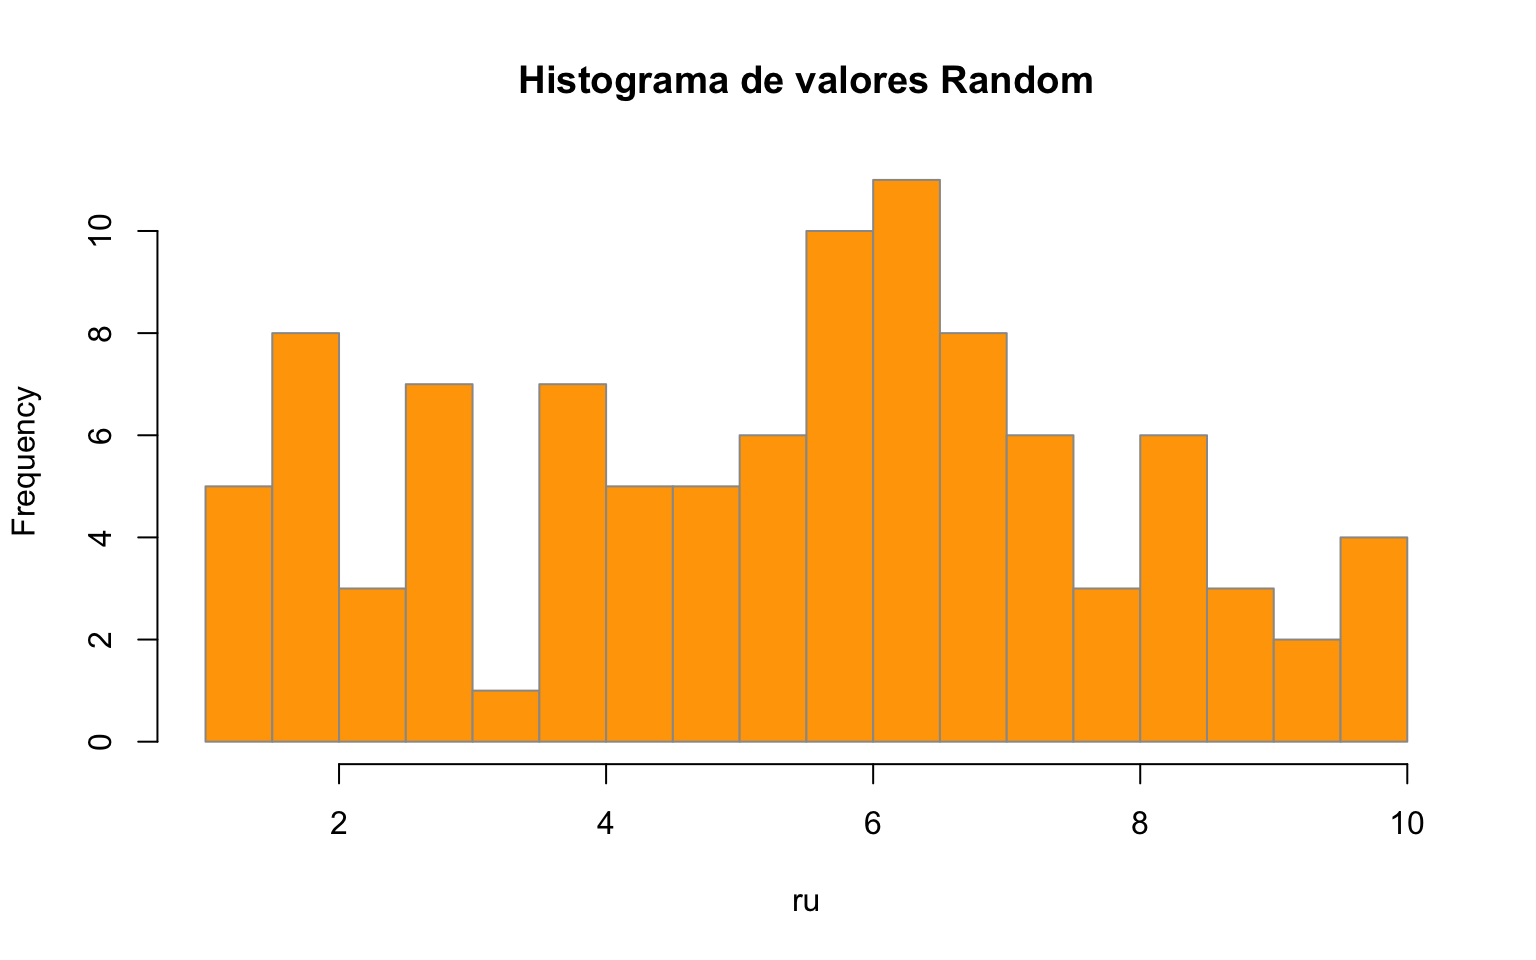
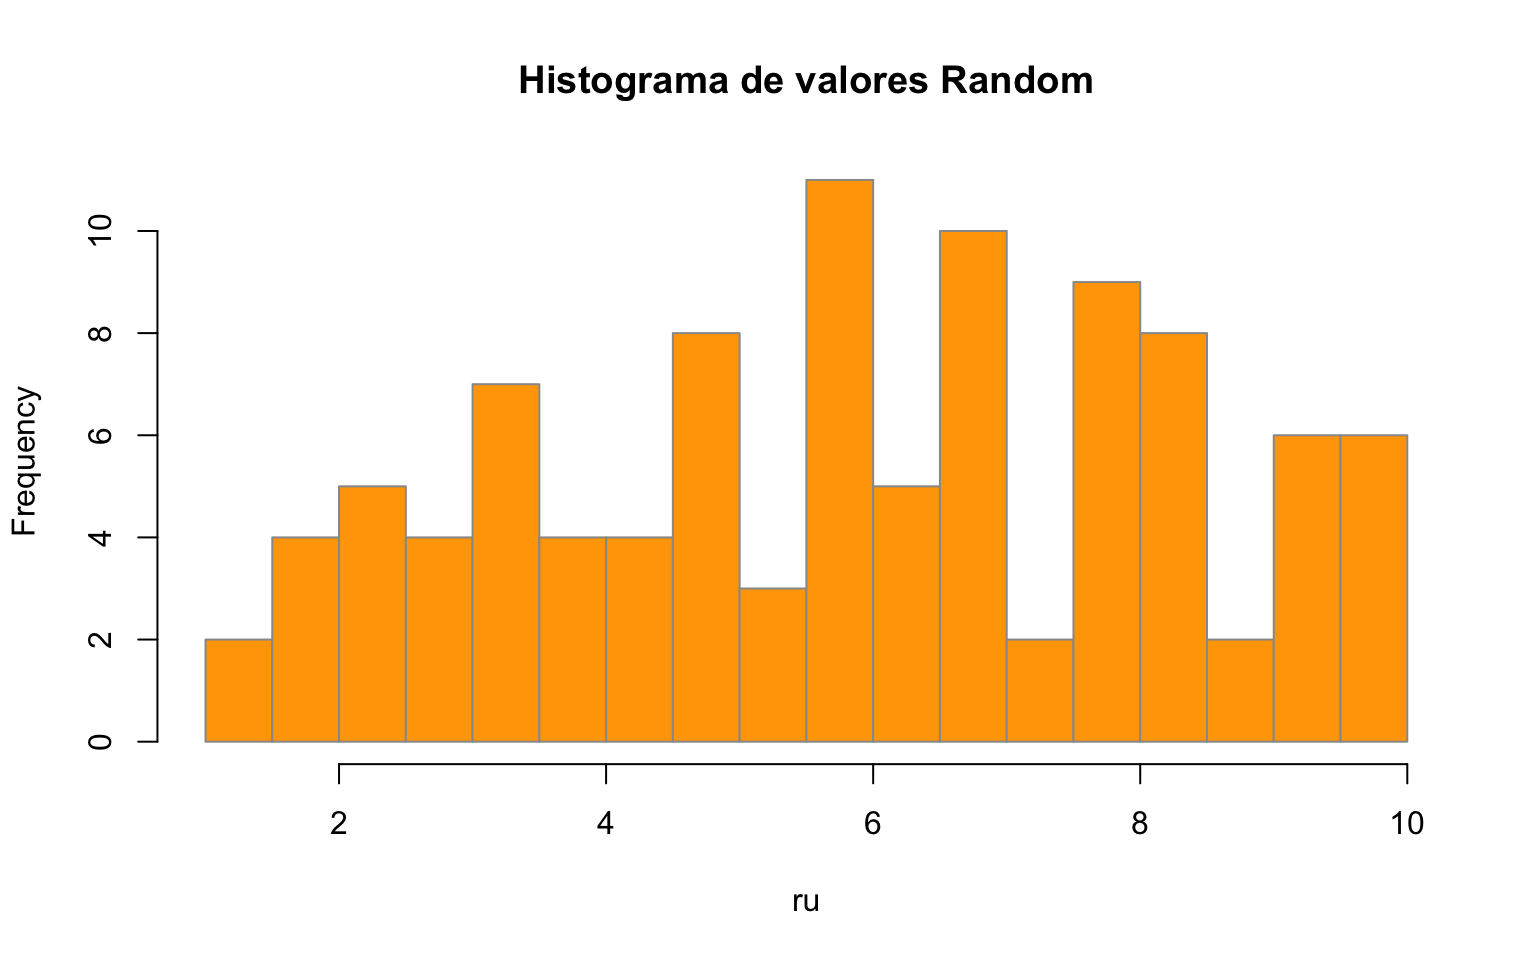
Built site for gh-pages

diff --git a/variables.html b/variables.html
@@ -352,19 +352,19 @@ pre > code.sourceCode > span > a:first-child::before { text-decoration: underlin
 <div class="sourceCode cell-code" id="cb7"><pre class="sourceCode r code-with-copy"><code class="sourceCode r"><span id="cb7-1"><a href="#cb7-1" aria-hidden="true" tabindex="-1"></a>ru <span class="ot">&lt;-</span> <span class="fu">runif</span>(<span class="at">n =</span> <span class="dv">100</span>, <span class="at">min =</span> <span class="dv">1</span>, <span class="at">max =</span> <span class="dv">10</span>)</span>
 <span id="cb7-2"><a href="#cb7-2" aria-hidden="true" tabindex="-1"></a>ru</span></code><button title="Copy to Clipboard" class="code-copy-button"><i class="bi"></i></button></pre></div>
 <div class="cell-output cell-output-stdout">
-<pre><code>  [1] 2.963505 5.615806 4.930651 7.063185 7.679930 9.776388 2.940523 6.950101
-  [9] 1.495263 4.038769 1.897172 8.070549 6.013493 6.953584 6.107700 3.860021
- [17] 1.215651 8.429122 5.544209 3.539908 8.998061 6.599917 6.926679 5.784476
- [25] 4.065803 9.818969 1.022517 8.718135 4.254321 5.672234 5.535871 3.166856
- [33] 8.113990 6.355150 2.721287 9.809988 5.696902 4.881304 9.944707 7.105657
- [41] 6.226735 7.596678 4.966840 8.400495 7.264185 4.514485 1.936054 7.496625
- [49] 5.216159 2.664050 1.827828 5.823840 6.581813 1.194175 8.144578 6.322790
- [57] 6.466865 1.982088 9.045264 5.642418 5.319236 2.292447 1.856655 5.038060
- [65] 3.939025 3.738792 5.524329 1.747925 7.013273 8.668850 1.978241 1.906178
- [73] 2.076551 6.847937 6.423613 6.820361 2.669176 4.255419 4.683044 2.539758
- [81] 6.382860 2.687161 7.347590 6.216584 6.509534 5.595555 2.083813 5.001352
- [89] 8.069623 7.852540 3.895578 6.202809 3.516413 9.211732 3.964896 5.444062
- [97] 1.437079 6.386682 4.075873 5.202151</code></pre>
+<pre><code>  [1] 3.456994 9.858976 6.120135 2.098249 2.302540 9.550429 5.759226 7.613156
+  [9] 4.992746 4.652783 1.869070 1.474843 3.201659 6.475494 8.852576 4.911414
+ [17] 6.542215 4.234994 4.642928 1.581963 3.821358 6.660769 3.555277 9.143173
+ [25] 9.787470 2.111812 7.538390 5.515504 9.264172 8.128866 9.788005 6.541272
+ [33] 9.199145 4.111481 5.736330 9.568525 9.349318 5.831027 5.519937 3.498662
+ [41] 7.044953 9.084283 3.337709 7.977747 5.769734 1.573871 2.887827 8.245489
+ [49] 2.583615 8.448083 5.879434 6.770437 6.718791 6.933110 5.443422 6.237445
+ [57] 3.083318 9.075873 8.029258 7.733110 7.884710 8.402778 8.465140 5.789355
+ [65] 1.776740 9.630101 6.034895 4.682663 2.867635 1.472135 4.111198 4.670917
+ [73] 4.972558 2.262823 3.088942 6.911793 6.547618 7.881541 8.484374 4.443077
+ [81] 6.772589 7.478196 5.589437 6.981458 2.052192 8.054728 5.322436 4.799487
+ [89] 3.746193 3.933247 7.806521 2.843109 3.285824 5.747954 6.162964 8.622439
+ [97] 5.665009 7.849366 7.813588 5.133889</code></pre>
 </div>
 </div>
 <div class="cell" data-layout-align="center">
@@ -383,7 +383,7 @@ pre > code.sourceCode > span > a:first-child::before { text-decoration: underlin
 <div class="cell">
 <div class="sourceCode cell-code" id="cb10"><pre class="sourceCode r code-with-copy"><code class="sourceCode r"><span id="cb10-1"><a href="#cb10-1" aria-hidden="true" tabindex="-1"></a><span class="fu">sample.int</span>(<span class="at">n =</span> <span class="dv">6</span>, <span class="at">size =</span> <span class="dv">10</span>, <span class="at">replace =</span> T)</span></code><button title="Copy to Clipboard" class="code-copy-button"><i class="bi"></i></button></pre></div>
 <div class="cell-output cell-output-stdout">
-<pre><code> [1] 3 2 4 3 3 3 1 3 1 6</code></pre>
+<pre><code> [1] 5 6 1 6 6 1 6 5 3 3</code></pre>
 </div>
 </div>
 </section>

diff --git a/control_r.html b/control_r.html
@@ -439,10 +439,10 @@ pre > code.sourceCode > span > a:first-child::before { text-decoration: underlin
 <span id="cb17-6"><a href="#cb17-6" aria-hidden="true" tabindex="-1"></a>  <span class="fu">print</span>(promedio)</span>
 <span id="cb17-7"><a href="#cb17-7" aria-hidden="true" tabindex="-1"></a>}</span></code><button title="Copy to Clipboard" class="code-copy-button"><i class="bi"></i></button></pre></div>
 <div class="cell-output cell-output-stdout">
-<pre><code>[1] 0.05525648
-[1] -0.01581181
-[1] -0.1362292
-[1] -0.006953899</code></pre>
+<pre><code>[1] 0.08818456
+[1] 0.04085476
+[1] -0.04390835
+[1] -0.4116029</code></pre>
 </div>
 </div>
 </section>

diff --git a/trabajo_final.html b/trabajo_final.html
@@ -257,10 +257,11 @@ ul.task-list li input[type="checkbox"] {
 <section id="antecedentes" class="level2">
 <h2 class="anchored" data-anchor-id="antecedentes">Antecedentes</h2>
 <ul>
-<li>Fecha de Presentación: <strong>20 de Octubre 2023</strong></li>
+<li>Fecha de Presentación: <strong>27 de Octubre 2023</strong></li>
 <li>Fecha de entrega Informe: <strong>27 de Octubre 2023</strong></li>
 <li>Formato Informe (docx, pdf) + Código (.R)</li>
 <li>Integrantes: 3 o 4</li>
+<li>Datos: compartir_SPD -&gt; data -&gt; datos_trabajo_final</li>
 </ul>
 </section>
 <section id="instrucciones" class="level2">
